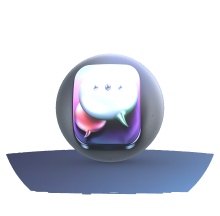
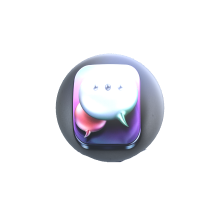
Actualización 4
Página index por terminar

Changed region(s): [[0.0273, 0.6667, 0.9818, 0.9167]]

diff --git a/contacto.html b/contacto.html
@@ -4,7 +4,8 @@
     <meta charset="UTF-8">
     <meta http-equiv="X-UA-Compatible" content="IE=edge">
     <meta name="viewport" content="width=device-width, initial-scale=1.0">
-    <link rel="stylesheet" href="style.css">
+    <link rel="stylesheet" href="stylecontact.css">
+
     <link rel="preconnect" href="https://fonts.googleapis.com">
     <link rel="preconnect" href="https://fonts.gstatic.com" crossorigin>
     <link href="https://fonts.googleapis.com/css2?family=Ibarra+Real+Nova:wght@400;500;700&display=swap" rel="stylesheet">
@@ -13,9 +14,8 @@
 <body>
     <div>
         <header>
-            
             <img class="menu_burger" src="./icons/menu_burger_icon.png" alt="teléfono Token Tech Music">
-            <a href="#">
+            <a href="./index.html">
                 <img src="img/Logo Token2.png" alt="logo token">
             </a>
             <nav class="header-nav">
@@ -43,9 +43,29 @@
         </header>
     
         <main>
-            <section class="section-1">
-                <h1>Valora tus sueños, que nada te detenga en hacerlos realidad.</h1>
-                <img class="container" src="./img/img2.png" alt="background">
+            <section class="contactos">
+                <div class="redes-sociales">
+                    <h3>Whatsapp</h3>
+                    <a href="https://wa.link/s44ix3">319-3162772</a>
+                    <a href="https://wa.link/xknwwp">319-3162672</a>
+                    <a href="https://wa.link/xknwwp">
+                        <img class="container" src="./icons/whatsapp.png" alt="whatsapp">
+                    </a>
+                    <a class="instagram" href="https://www.instagram.com/token.music/">Instagram <img src="./icons/instaicon.png" alt=""></a>
+                    <a class="facebook" href="https://www.facebook.com/token.tecmusic">Facebook <img src="./icons/faceicon.png" alt=""></a>
+    
+                </div>
+
+
+                <div class="direccion">
+                    <h3 class="somos-tienda-fisica">Somos TIENDA FÍSICA</h3>
+                    <p>DIAGONAL 182 20 91 CC PANAMA OF 232 234 A</p>
+                    <a href="https://www.google.es/maps?daddr=DIAGONAL+182+20+91+CC+PANAMA+OF+232+234+A,+BOGOTA,+BOGOTA">¿Cómo llegar?</a>
+                    <iframe src="https://www.google.com/maps/embed?pb=!1m14!1m8!1m3!1d9456.742026957458!2d-74.04511647115706!3d4.757808551454906!3m2!1i1024!2i768!4f13.1!3m3!1m2!1s0x0%3A0x6f8d0cff7b91d1b7!2sCentro%20Comercial%20Panam%C3%A1!5e0!3m2!1ses!2sus!4v1659005771439!5m2!1ses!2sus" 
+                    width="600" height="450" style="border:0;" allowfullscreen="" loading="lazy" referrerpolicy="no-referrer-when-downgrade"></iframe>
+                </div>
+
+
             </section>
             <section class="section-2">
                 <nav>

diff --git a/stylecontact.css b/stylecontact.css
@@ -3,35 +3,12 @@
     margin: 0;
     padding: 0;
     font-family: 'Quicksand', sans-serif;
-    
 }
 body{
     display: flex;
     flex-direction: column;
-    background-image: url(./img/Background.png);
+    background-image: url(./img/Background-general.png);
     background-size: 100%;
-    /* background: rgb(43,47,108);
-    background: linear-gradient(90deg, 
-    rgba(43,47,108,1) 1%, 
-    rgba(126,58,161,0.969625350140056) 25%, 
-    rgba(238, 29, 151, 0.788) 40%, 
-    rgba(70,55,148,1) 60%, 
-    rgba(69,59,134,0.9528186274509804) 80%, 
-    rgba(105,158,188,1) 100%); */
-    
-    /* background: linear-gradient(90deg,
-    rgba(43,47,108,1) 1%, 
-    #FC466B 30%,
-    rgb(127, 58, 161) 70%,
-    #3F5EFB 100%); */
-
-    /* background: linear-gradient(90deg, 
-    rgba(43,47,108,1) 6%,
-    rgba(126,58,161,1) 25%,
-    rgba(252,70,107,1) 41%,
-    rgba(79,56,136,1) 57%, 
-    rgba(69,59,134,0.9528186274509804) 75%,
-    rgba(129,201,241,1) 97%); */
 }
 header{
     display: flex;
@@ -107,30 +84,20 @@ header nav ul li a{
 }
 
 
-
-
-
-.section-1{
+.contactos{
     display: flex;
-    flex-direction: row;
-    justify-content: space-around;
+    flex-direction: column;
+    justify-content: center;
     align-items: center;
-    color: white;
-    width: 100%;
 }
-.section-1 h1{
-    margin: 0 50px;
-    padding: 0 auto;
-    font-size: 40px;
-    text-align: center;
-    text-shadow: 5px 5px 8px black;
+.redes-sociales img{
+    width: 10rem;
+}
+.somos-tienda-fisica{
+
 }
 
-.section-1 img{
-    width:50%;
-    border-radius: 20px;
-    margin: 0 2rem;
-}
+
 .section-2{
     box-sizing: border-box;
     margin-top: 40px;
